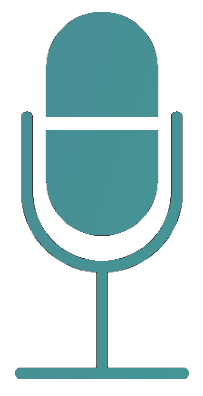
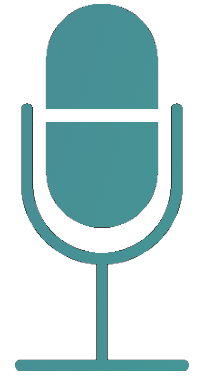
more

diff --git a/static/style/style.css b/static/style/style.css
@@ -270,12 +270,16 @@ label {
 .icons > .iconLink {
   display: inline-block;
   vertical-align: top;
-  width: 25px;
+  width: 200px;
+  margin-left: 70px;
+  margin-right: 70px;
 }
 
 .icons > .iconLink > .createLabels {
   display: block;
   margin: auto;
+  text-align: center;
+  margin-top: 25px;
 }
 
 .icons:after {

diff --git a/templates/create.html b/templates/create.html
@@ -39,7 +39,7 @@
       </div>
 
       <div class="filler"></div>
-
+      <div class="filler"></div>
 
 
       <div class="icons">
